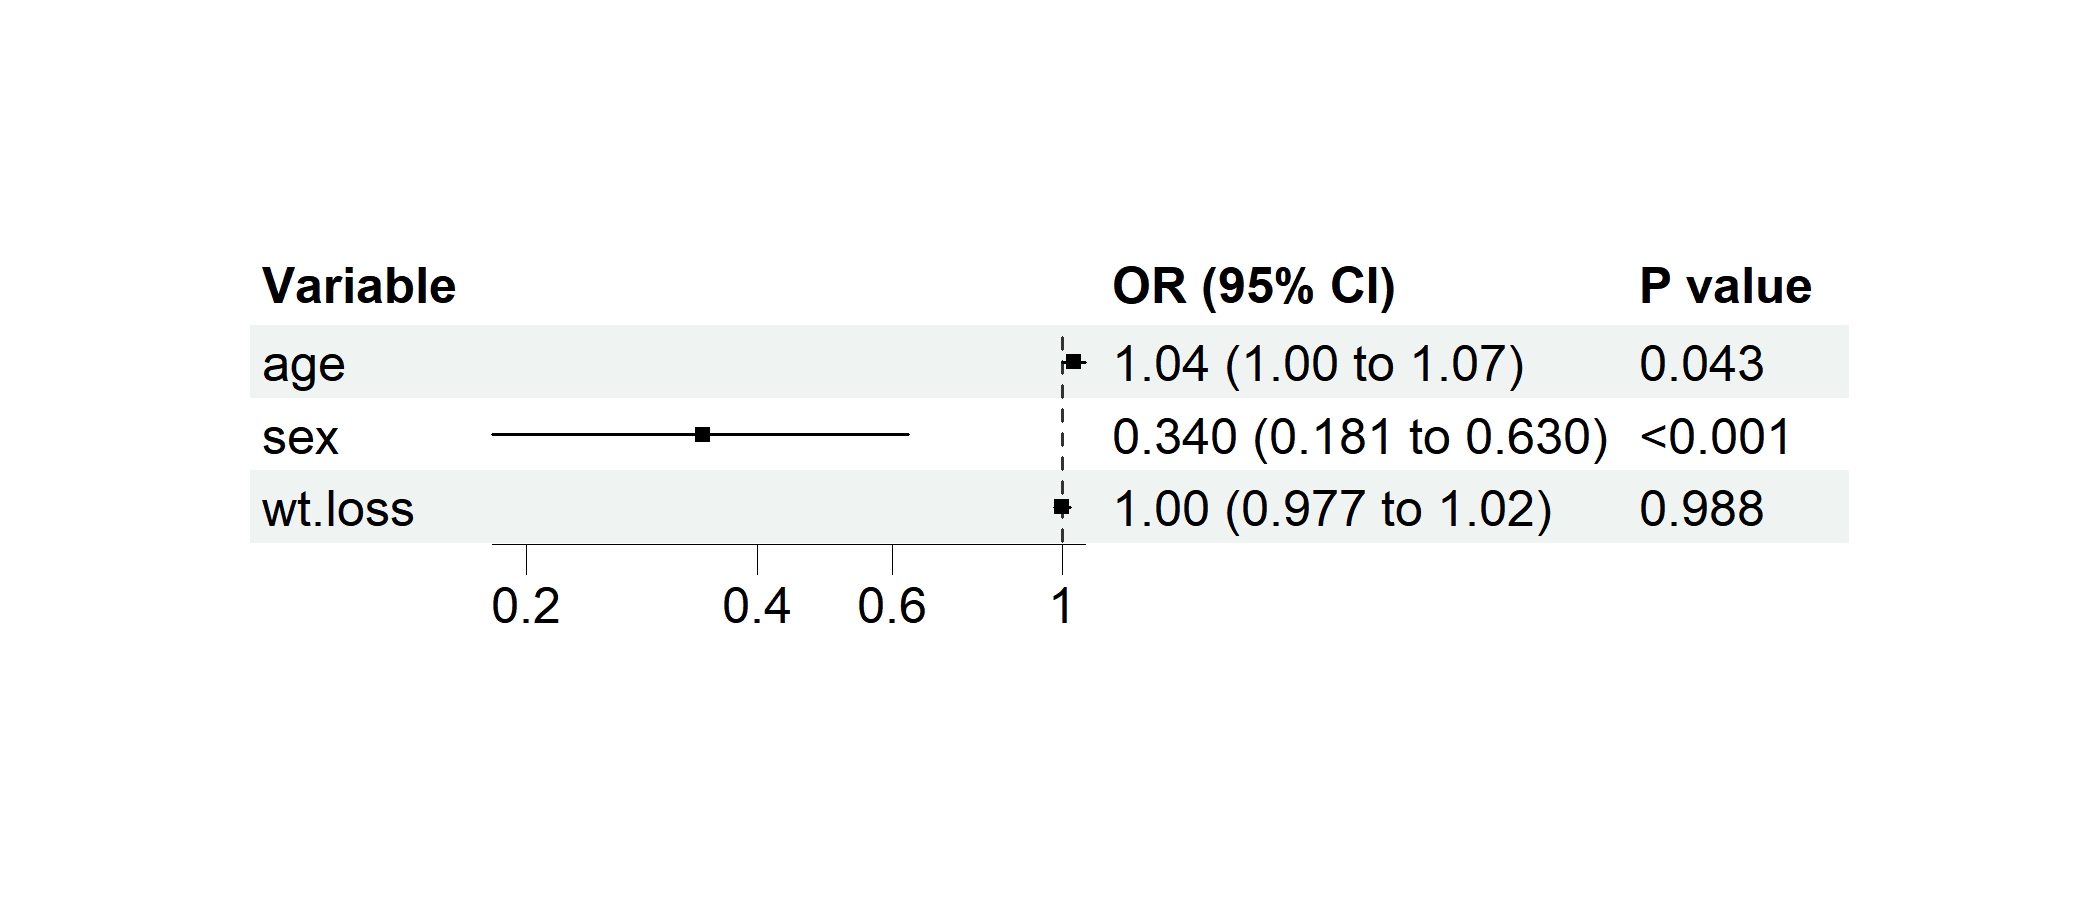
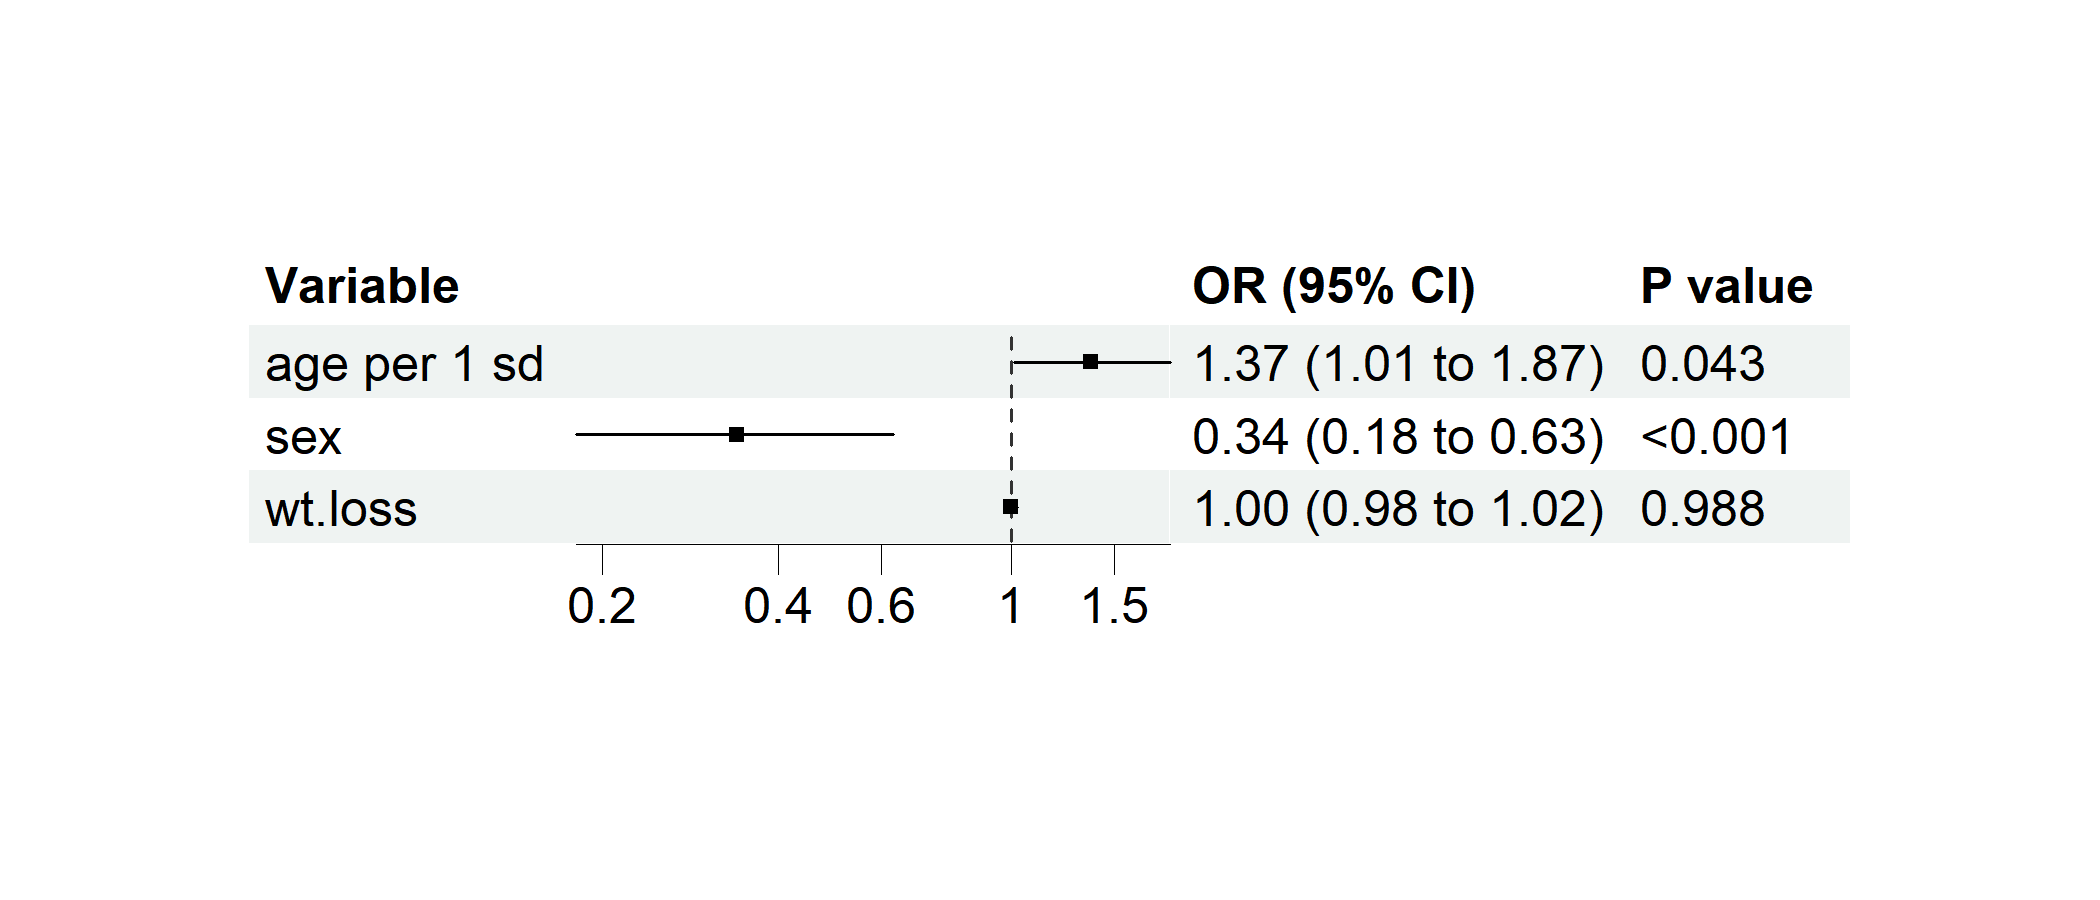
updated forest number format

diff --git a/tests/testthat/_snaps/regressions.md b/tests/testthat/_snaps/regressions.md
@@ -3,63 +3,46 @@
     Code
       results$table
     Output
-                           Terms Count            Crude Crude            Model1
-      1                age (All)   227               HR     P                HR
-      2               Continuous    NA  1.02(1.00,1.04) 0.041  1.01(0.995,1.03)
-      3      Continuous, per 0.1    NA  1.00(1.00,1.00) 0.041  1.00(0.999,1.00)
-      4       Continuous, per 10    NA  1.21(1.01,1.45) 0.041  1.14(0.949,1.38)
-      5      Continuous, per 100    NA  6.56(1.08,40.0) 0.041  3.80(0.595,24.2)
-      6     Continuous, per 1 SD    NA  1.19(1.01,1.40) 0.041  1.13(0.954,1.34)
-      7    Continuous, logarithm    NA  3.03(1.02,9.06) 0.047  2.20(0.723,6.72)
-      8     Grouped by Quartiles    NA             <NA>  <NA>              <NA>
-      9                       Q1    49    1 (Reference)  <NA>     1 (Reference)
-      10                      Q2    56 1.08(0.676,1.72) 0.754  1.11(0.697,1.77)
-      11                      Q3    55 1.02(0.638,1.63) 0.929 0.937(0.582,1.51)
-      12                      Q4    67 1.39(0.893,2.15) 0.145  1.25(0.800,1.96)
-      13             P for trend    NA             <NA> 0.160              <NA>
-      14 Grouped by Median Value    NA             <NA>  <NA>              <NA>
-      15                     Low   105    1 (Reference)  <NA>     1 (Reference)
-      16                    High   122 1.16(0.850,1.58) 0.354  1.04(0.750,1.43)
-         Model1
-      1       P
-      2   0.158
-      3   0.158
-      4   0.158
-      5   0.158
-      6   0.158
-      7   0.165
-      8    <NA>
-      9    <NA>
-      10  0.658
-      11  0.787
-      12  0.325
-      13  0.426
-      14   <NA>
-      15   <NA>
-      16  0.833
+                           Terms Count            Crude Crude           Model1 Model1
+      1                age (All)   227               HR     P               HR      P
+      2               Continuous    NA  1.02(1.00,1.04) 0.041  1.01(0.99,1.03)  0.158
+      3      Continuous, per 0.1    NA  1.00(1.00,1.00) 0.041  1.00(1.00,1.00)  0.158
+      4       Continuous, per 10    NA  1.21(1.01,1.45) 0.041  1.14(0.95,1.38)  0.158
+      5      Continuous, per 100    NA 6.56(1.08,40.03) 0.041 3.80(0.60,24.23)  0.158
+      6     Continuous, per 1 SD    NA  1.19(1.01,1.40) 0.041  1.13(0.95,1.34)  0.158
+      7    Continuous, logarithm    NA  3.03(1.02,9.06) 0.047  2.20(0.72,6.72)  0.165
+      8     Grouped by Quartiles    NA             <NA>  <NA>             <NA>   <NA>
+      9                       Q1    49    1 (Reference)  <NA>    1 (Reference)   <NA>
+      10                      Q2    56  1.08(0.68,1.72) 0.754  1.11(0.70,1.77)  0.658
+      11                      Q3    55  1.02(0.64,1.63) 0.929  0.94(0.58,1.51)  0.787
+      12                      Q4    67  1.39(0.89,2.15) 0.145  1.25(0.80,1.96)  0.325
+      13             P for trend    NA             <NA> 0.160             <NA>  0.426
+      14 Grouped by Median Value    NA             <NA>  <NA>             <NA>   <NA>
+      15                     Low   105    1 (Reference)  <NA>    1 (Reference)   <NA>
+      16                    High   122  1.16(0.85,1.58) 0.354  1.04(0.75,1.43)  0.833
 
 # regression_basic_results works for logistic regression
 
     Code
       results$table
     Output
-                           Terms Count               Crude Crude              Model1
-      1                age (All)   227                  OR     P                  OR
-      2               Continuous    NA     1.04(1.00,1.07) 0.025    1.03(0.996,1.06)
-      3      Continuous, per 0.1    NA     1.00(1.00,1.01) 0.025     1.00(1.00,1.01)
-      4       Continuous, per 10    NA     1.44(1.05,2.00) 0.025    1.34(0.964,1.87)
-      5      Continuous, per 100    NA 39.3(1.61,1.03e+03) 0.025 18.7(0.695,   533.)
-      6     Continuous, per 1 SD    NA     1.40(1.04,1.88) 0.025    1.31(0.967,1.77)
-      7    Continuous, logarithm    NA     9.14(1.41,61.1) 0.021    5.96(0.870,41.8)
-      8     Grouped by Quartiles    NA                <NA>  <NA>                <NA>
-      9                       Q1    49       1 (Reference)  <NA>       1 (Reference)
-      10                      Q2    56    1.33(0.581,3.05) 0.501    1.28(0.551,2.97)
-      11                      Q3    55    1.29(0.565,2.98) 0.540    1.23(0.529,2.85)
-      12                      Q4    67    2.01(0.878,4.68) 0.100    1.68(0.716,3.98)
-      13             P for trend    NA                <NA> 0.119                <NA>
-      14 Grouped by Median Value    NA                <NA>  <NA>                <NA>
-      15                     Low   105       1 (Reference)  <NA>       1 (Reference)
-      16                    High   122    1.41(0.785,2.53) 0.252    1.26(0.695,2.30)
+                           Terms Count               Crude Crude             Model1
+      1                age (All)   227                  OR     P                 OR
+      2               Continuous    NA     1.04(1.00,1.07) 0.025    1.03(1.00,1.06)
+      3      Continuous, per 0.1    NA     1.00(1.00,1.01) 0.025    1.00(1.00,1.01)
+      4       Continuous, per 10    NA     1.44(1.05,2.00) 0.025    1.34(0.96,1.87)
+      5      Continuous, per 100    NA 39.29(1.61,1034.37) 0.025 18.70(0.69,532.68)
+      6     Continuous, per 1 SD    NA     1.40(1.04,1.88) 0.025    1.31(0.97,1.77)
+      7    Continuous, logarithm    NA    9.14(1.41,61.13) 0.021   5.96(0.87,41.79)
+      8     Grouped by Quartiles    NA                <NA>  <NA>               <NA>
+      9                       Q1    49       1 (Reference)  <NA>      1 (Reference)
+      10                      Q2    56     1.33(0.58,3.05) 0.501    1.28(0.55,2.97)
+      11                      Q3    55     1.29(0.57,2.98) 0.540    1.23(0.53,2.85)
+      12                      Q4    67     2.01(0.88,4.68) 0.100    1.68(0.72,3.98)
+      13             P for trend    NA                <NA> 0.119               <NA>
+      14 Grouped by Median Value    NA                <NA>  <NA>               <NA>
+      15                     Low   105       1 (Reference)  <NA>      1 (Reference)
+      16                    High   122     1.41(0.79,2.53) 0.252    1.26(0.70,2.30)
          Model1
       1       P
       2   0.083
@@ -83,23 +66,23 @@
     Code
       results$table
     Output
-                           Terms Count                   Crude Crude
-      1                age (All)   214             Coefficient     P
-      2               Continuous    NA    0.0546(-0.139,0.248) 0.579
-      3      Continuous, per 0.1    NA 0.00546(-0.0139,0.0248) 0.579
-      4       Continuous, per 10    NA       0.546(-1.39,2.48) 0.579
-      5      Continuous, per 100    NA        5.46(-13.9,24.8) 0.579
-      6     Continuous, per 1 SD    NA       0.501(-1.28,2.28) 0.579
-      7    Continuous, logarithm    NA        4.01(-7.45,15.5) 0.491
-      8     Grouped by Quartiles    NA                    <NA>  <NA>
-      9                       Q1    54           1 (Reference)  <NA>
-      10                      Q2    43        3.28(-2.03,8.59) 0.224
-      11                      Q3    63       0.817(-4.00,5.64) 0.738
-      12                      Q4    54       0.389(-4.61,5.39) 0.878
-      13             P for trend    NA                    <NA> 0.914
-      14 Grouped by Median Value    NA                    <NA>  <NA>
-      15                     Low    97           1 (Reference)  <NA>
-      16                    High   117      -0.836(-4.40,2.73) 0.644
+                           Terms Count              Crude Crude
+      1                age (All)   214        Coefficient     P
+      2               Continuous    NA   0.05(-0.14,0.25) 0.579
+      3      Continuous, per 0.1    NA  0.005(-0.01,0.02) 0.579
+      4       Continuous, per 10    NA   0.55(-1.39,2.48) 0.579
+      5      Continuous, per 100    NA 5.46(-13.90,24.81) 0.579
+      6     Continuous, per 1 SD    NA   0.50(-1.28,2.28) 0.579
+      7    Continuous, logarithm    NA  4.01(-7.45,15.46) 0.491
+      8     Grouped by Quartiles    NA               <NA>  <NA>
+      9                       Q1    54      1 (Reference)  <NA>
+      10                      Q2    43   3.28(-2.03,8.59) 0.224
+      11                      Q3    63   0.82(-4.00,5.64) 0.738
+      12                      Q4    54   0.39(-4.61,5.39) 0.878
+      13             P for trend    NA               <NA> 0.914
+      14 Grouped by Median Value    NA               <NA>  <NA>
+      15                     Low    97      1 (Reference)  <NA>
+      16                    High   117  -0.84(-4.40,2.73) 0.644
 
 # regression_scan returns expected structure
 

diff --git a/README.md b/README.md
@@ -142,7 +142,7 @@ knitr::kable(tables$baseline) # Display the table
 | wt (mean (SD)) | 3.2 (1.0) | 3.7 (0.9) | 2.6 (0.7) | 0.001 |  |
 | qsec (mean (SD)) | 17.8 (1.8) | 16.7 (1.1) | 19.3 (1.4) | \<0.001 |  |
 | am = 1 (%) | 13 (40.6) | 6 (33.3) | 7 (50.0) | 0.556 |  |
-| gear (%) |  |  |  | 0.002 | exact |
+| gear (%) |  |  |  | 0.001 | exact |
 | 3 | 15 (46.9) | 12 (66.7) | 3 (21.4) |  |  |
 | 4 | 12 (37.5) | 2 (11.1) | 10 (71.4) |  |  |
 | 5 | 5 (15.6) | 4 (22.2) | 1 (7.1) |  |  |
@@ -188,10 +188,11 @@ plot(p$rcs)
 ``` r
 data(cancer, package = "survival")
 cancer$dead <- cancer$status == 2 # Preparing a binary variable for logistic regression
+cancer$`age per 1 sd` <- c(scale(cancer$age)) # Standardizing age
 
 # Performing multivairate logistic regression
 p1 <- regression_forest(cancer,
-  model_vars = c("age", "sex", "wt.loss"), y = "dead",
+  model_vars = c("age per 1 sd", "sex", "wt.loss"), y = "dead",
   as_univariate = FALSE, save_plot = FALSE
 )
 plot(p1)
@@ -204,9 +205,9 @@ plot(p1)
 p2 <- regression_forest(
   cancer,
   model_vars = list(
-    Crude = c("age"),
-    Model1 = c("age", "sex"),
-    Model2 = c("age", "sex", "wt.loss")
+    Crude = c("age per 1 sd"),
+    Model1 = c("age per 1 sd", "sex"),
+    Model2 = c("age per 1 sd", "sex", "wt.loss")
   ),
   y = "dead",
   save_plot = FALSE
